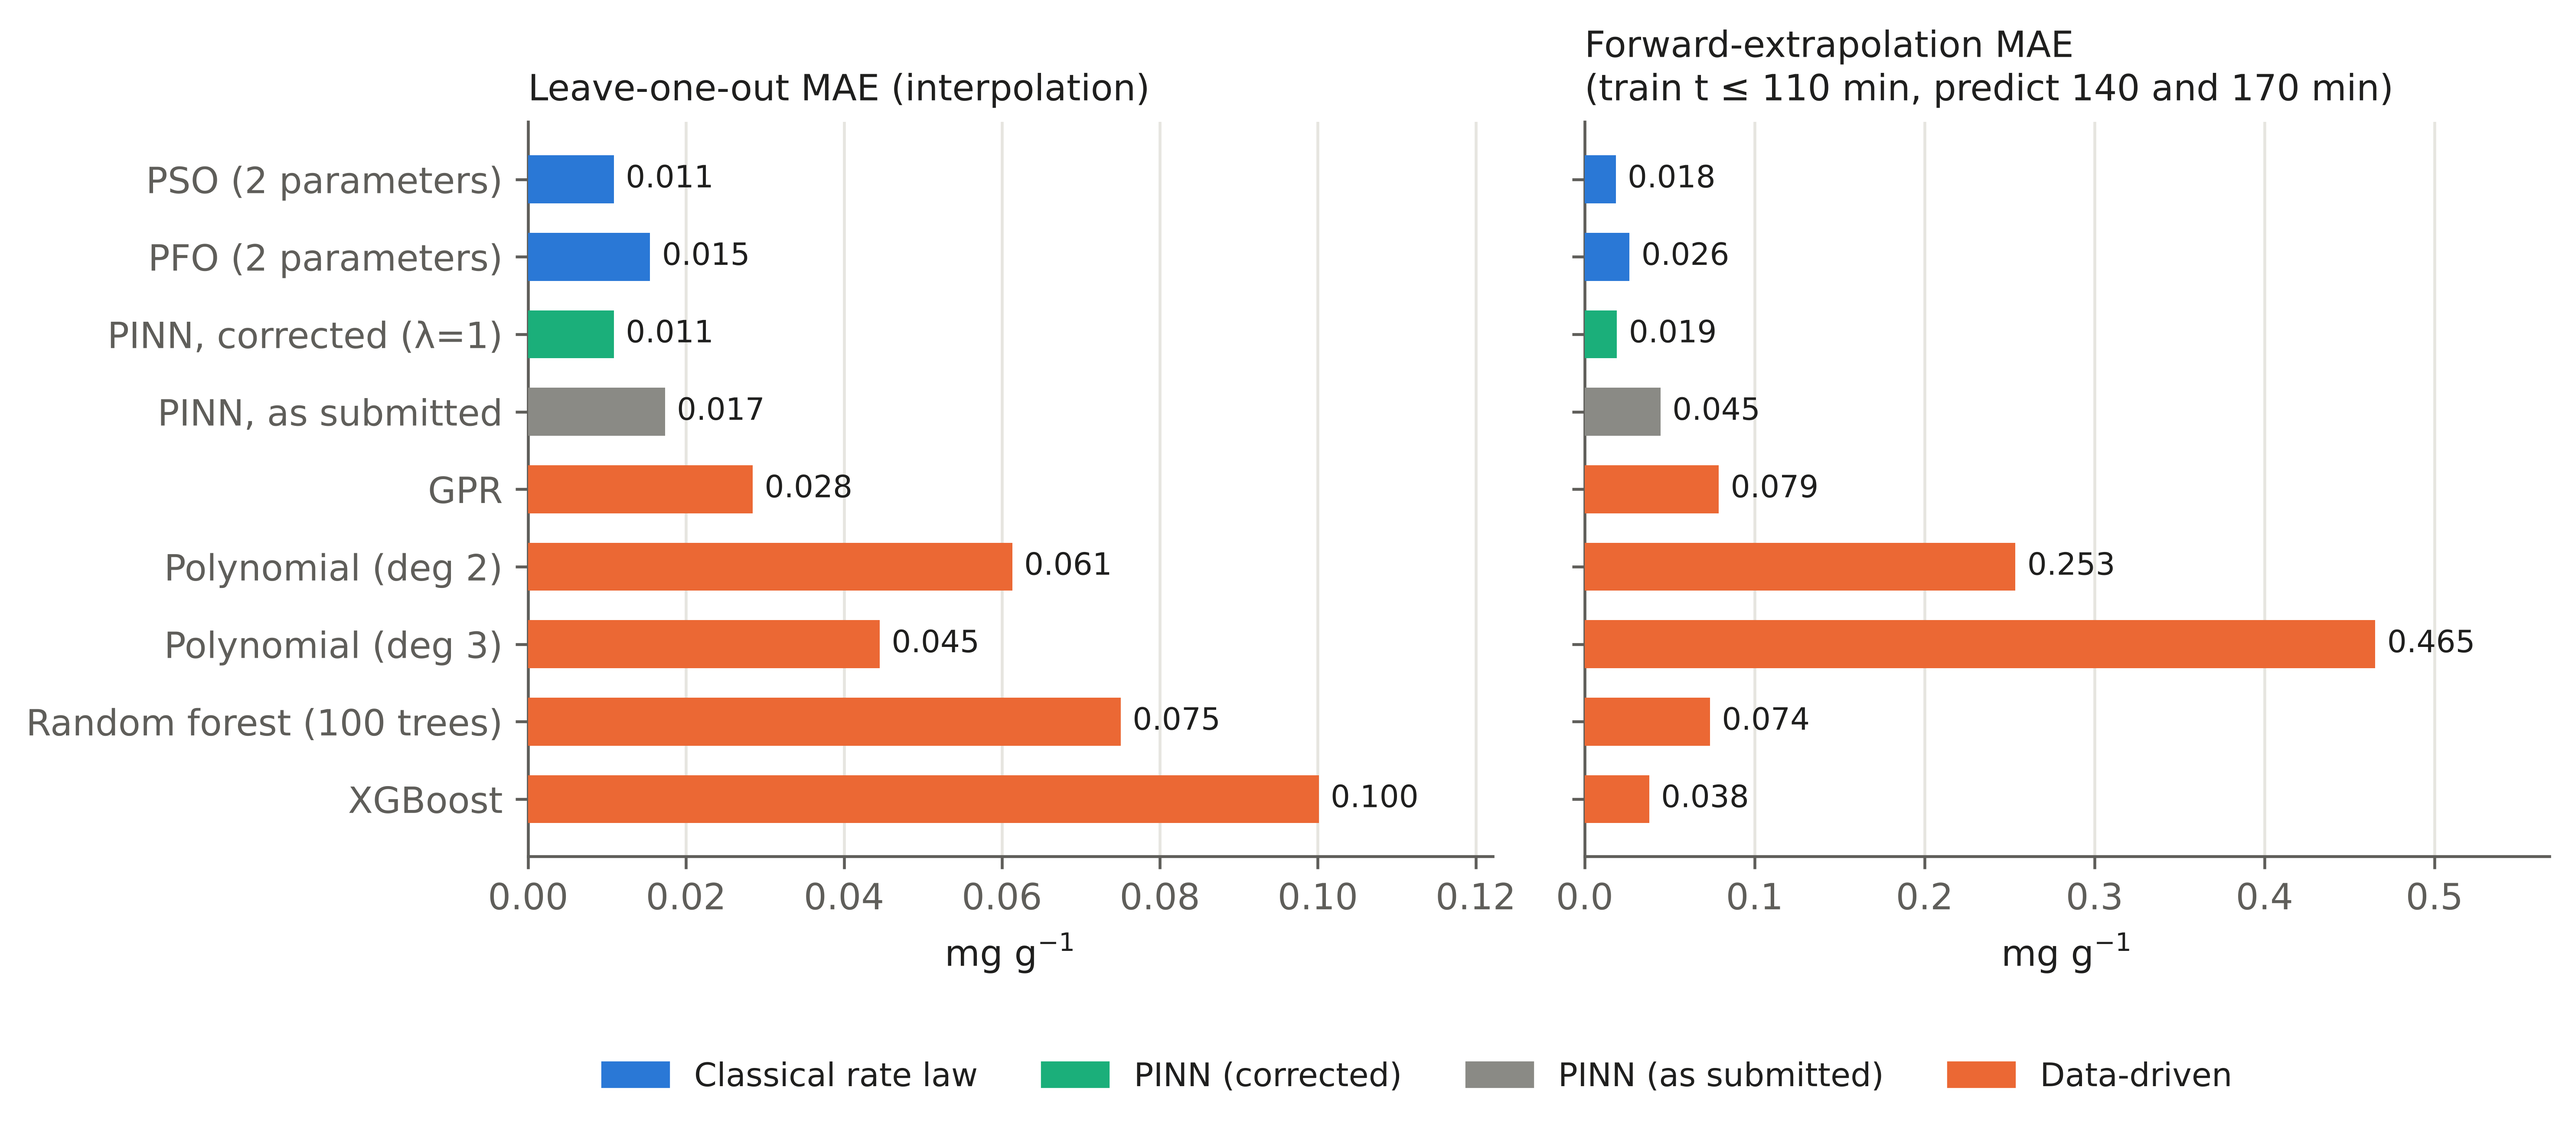
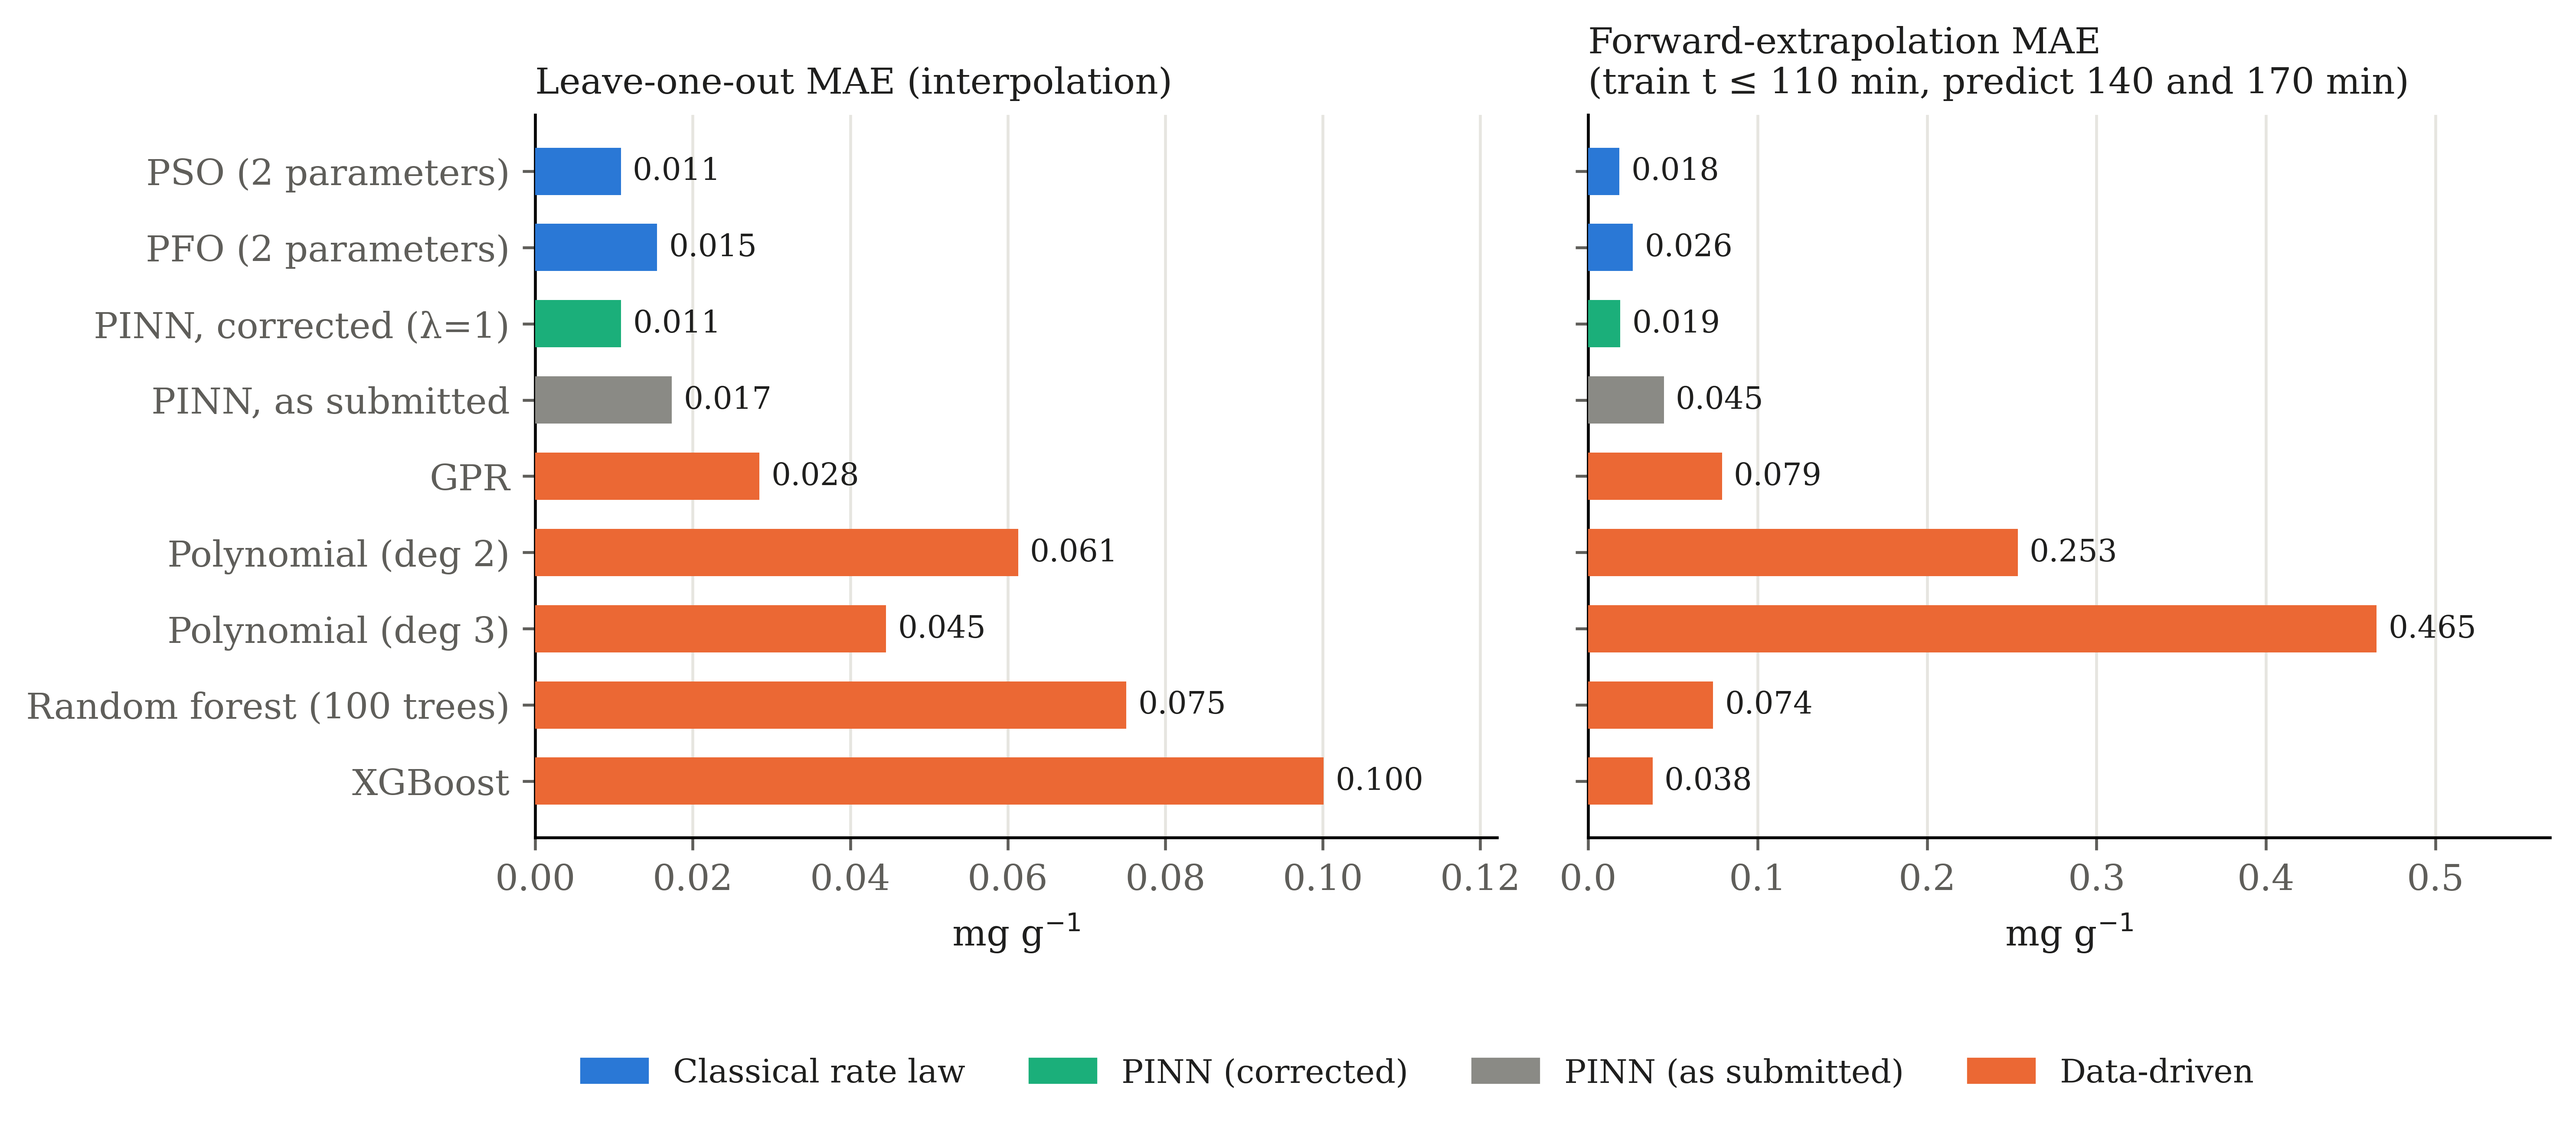
Revision figures: same typeface as the other figures (Reviewer 2 #10); read per-job outputs from results/

diff --git a/revision/make_revision_figures.py b/revision/make_revision_figures.py
@@ -23,7 +23,7 @@ p3 = J("revision_pinn3d_summary.json")
 # palette: categorical slots 1-3 (validated) + neutral grey; text stays in ink colours
 BLUE, ORANGE, AQUA, GREY = "#2a78d6", "#eb6834", "#1baf7a", "#8a8a85"
 INK, INK2, GRID = "#1f1f1e", "#5f5e5a", "#e6e5e0"
-plt.rcParams.update({"font.family": "DejaVu Sans", "font.size": 10, "axes.edgecolor": INK2,
+plt.rcParams.update({"font.family": "DejaVu Serif",  # same typeface as wcf_common.py "font.size": 10, "axes.edgecolor": INK2,
                      "axes.labelcolor": INK, "xtick.color": INK2, "ytick.color": INK2,
                      "text.color": INK, "axes.linewidth": 0.8, "savefig.dpi": 600,
                      "savefig.bbox": "tight", "legend.frameon": False})
@@ -97,8 +97,8 @@ fig.savefig(os.path.join(FIG, "rev_fig2_pinn_ablation.png"))
 plt.close(fig)
 
 # ------------------------------------------------------------- Fig R3: learned kinetic curves
-rows = [json.loads(l) for l in open(os.path.join(HERE, "res1d.jsonl"))] if os.path.exists(
-    os.path.join(HERE, "res1d.jsonl")) else []
+JOBS1D = os.path.join(RES, "revision_pinn1d_jobs.jsonl")   # committed per-job outputs
+rows = [json.loads(l) for l in open(JOBS1D)] if os.path.exists(JOBS1D) else []
 from wcf_biofilm.classical import pso
 fig, ax = plt.subplots(figsize=(6.4, 4.2))
 tf = np.linspace(0, 180, 181)
